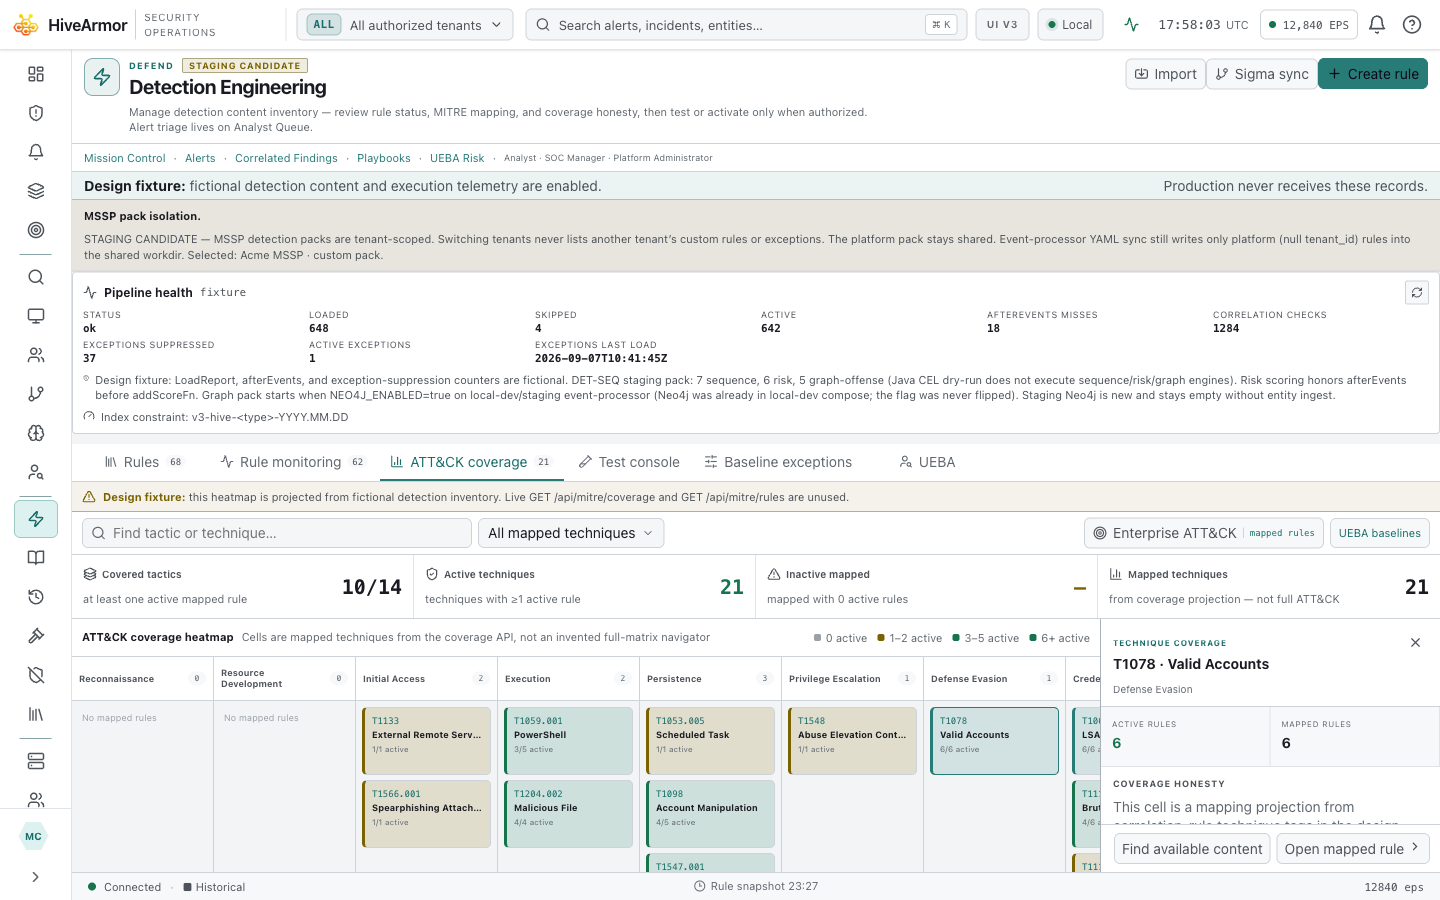
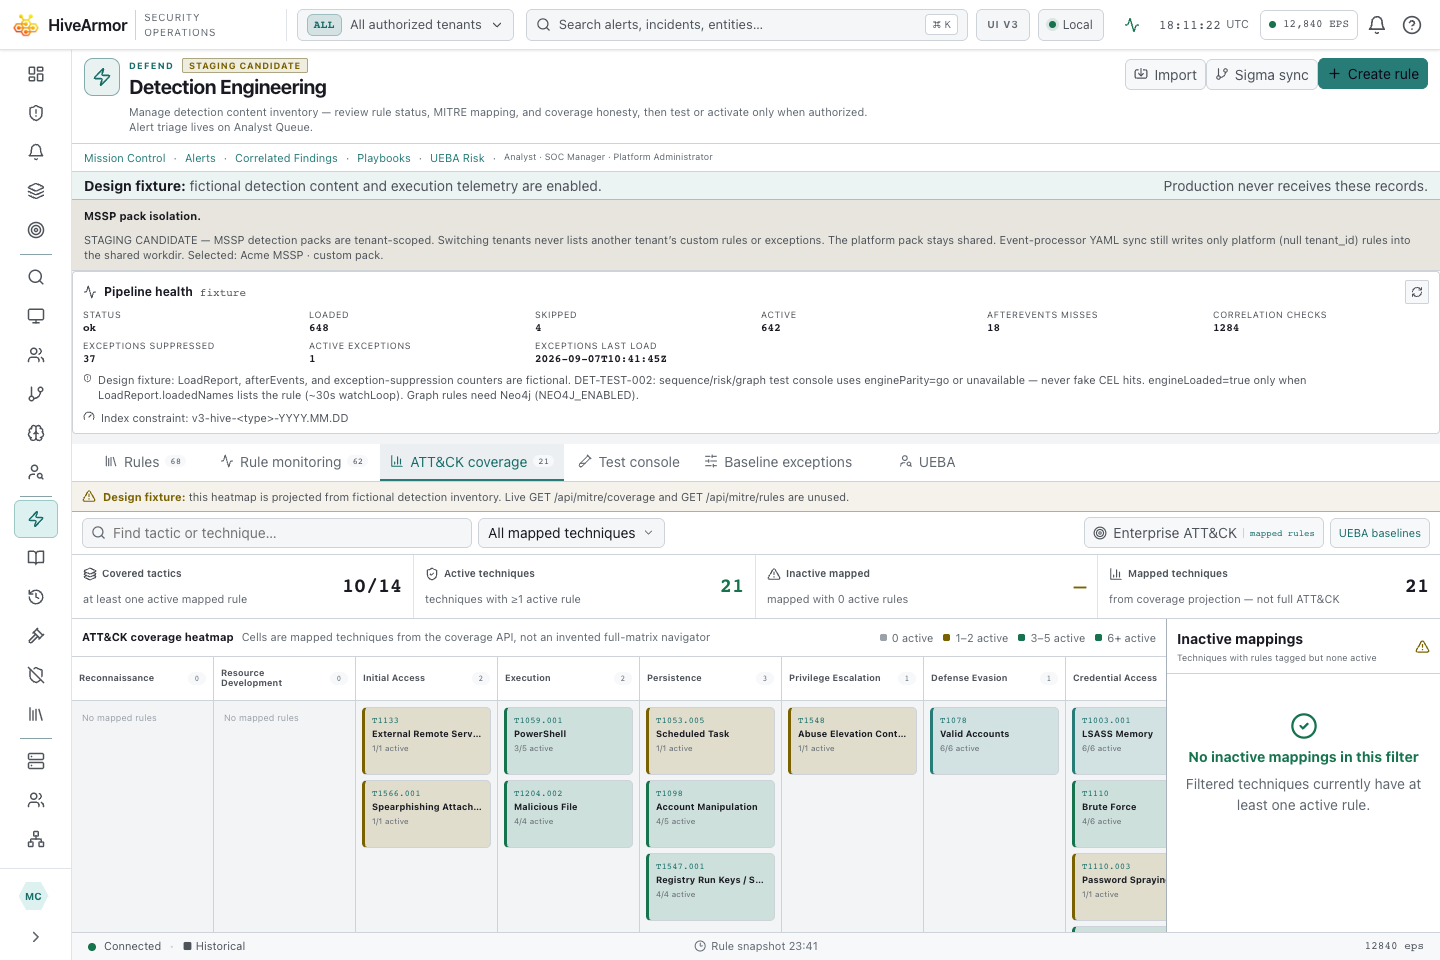
docs(detection): record live MITRE coverage browser proof
Fixtures-off Coverage tab called GET /api/mitre/coverage and click GET /api/mitre/rules; unused-API banner stayed fixture-only.

diff --git a/docs/ai-handoff/detection-ui-verify/DET-COV-002.md b/docs/ai-handoff/detection-ui-verify/DET-COV-002.md
@@ -16,12 +16,14 @@ Detection Engineering → ATT&CK coverage:
 
 ## Verification (2026-09-07, Darwin local-dev)
 
-- Fixture UI (`http://localhost:3000`): unused-API banner present; heatmap projected from fictional inventory; T1078 detail lists fixture-mapped rules. Live `/api/mitre/*` was not called.
-- Fixtures-off Vite (`http://localhost:3001`): `VITE_USE_FOUNDATION_FIXTURES` inlined as `"false"`; session requires Sign in (no Maya Chen auto-auth).
-- Live API (backend up, JWT admin): `GET /api/mitre/coverage` → **200**, **251** rows (216 with `Txxxx` ids). `GET /api/mitre/rules?techniqueId=T1003.001` → **200**, mapped correlation-rule refs. Empty `[]` stays empty via `buildMitreHeatmap([])` (unit-tested). Not a staging VM. Not PRODUCTION READY.
+- Fixture UI (`http://localhost:3000`): unused-API banner present; heatmap projected from fictional inventory (21 mapped techniques). Playwright recorded **zero** `/api/mitre/*` calls.
+- Fixtures-off Vite (`http://localhost:3001`): session requires Sign in (no Maya Chen auto-auth). After JWT, Coverage tab called `GET /api/mitre/coverage` then click `GET /api/mitre/rules?techniqueId=T1003.001`. Unused-API banner **absent**. Heatmap showed live mapped cells (229 techniques / 14 tactics) — not inventory fiction. Empty `[]` stays empty via `buildMitreHeatmap([])` (unit-tested).
+- Live API (JWT admin): coverage **200**, **251** rows (214 labeled `Txxxx`). Rules for `T1003.001` **200**. Not a staging VM. Not PRODUCTION READY.
 
 ## Screenshots
 
 - `mitre-live-fixture-banner.png` — unused-API banner only in fixture mode
-- `mitre-live-fixture-heatmap.png` — fixture heatmap + T1078 detail
+- `mitre-live-fixture-heatmap.png` — fixture heatmap (21 cells)
 - `mitre-live-api-login.png` — fixtures off requires real Sign in
+- `mitre-live-api-heatmap.png` — live coverage from `GET /api/mitre/coverage`
+- `mitre-live-api-rules.png` — T1003.001 detail from `GET /api/mitre/rules`
